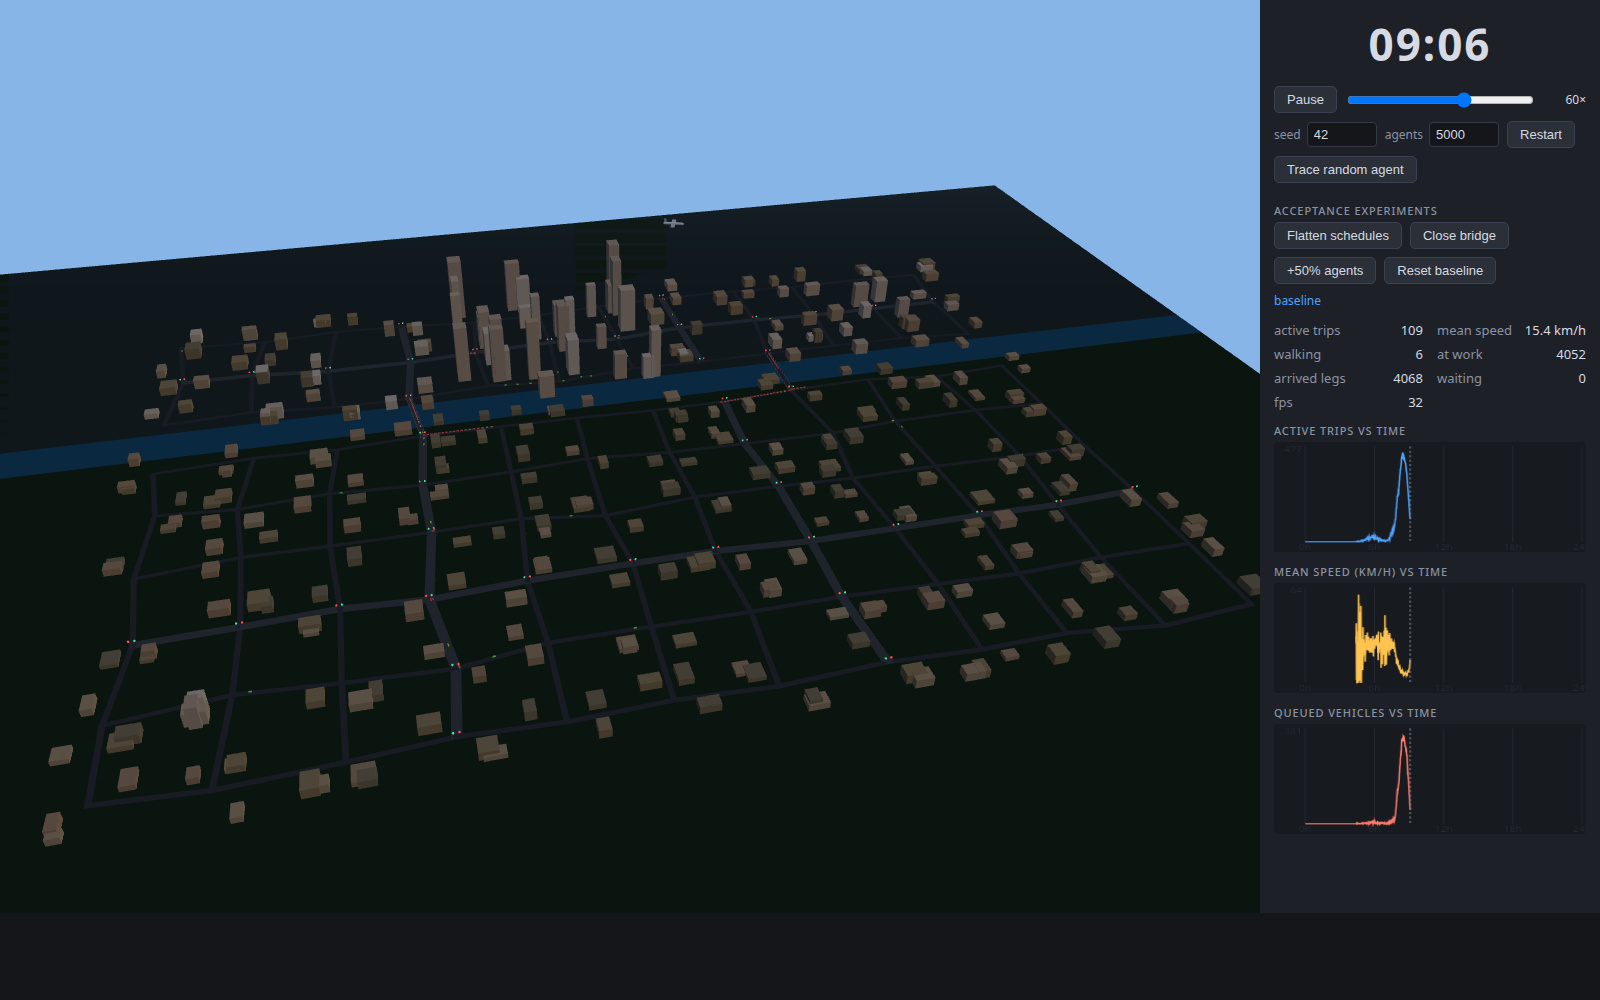
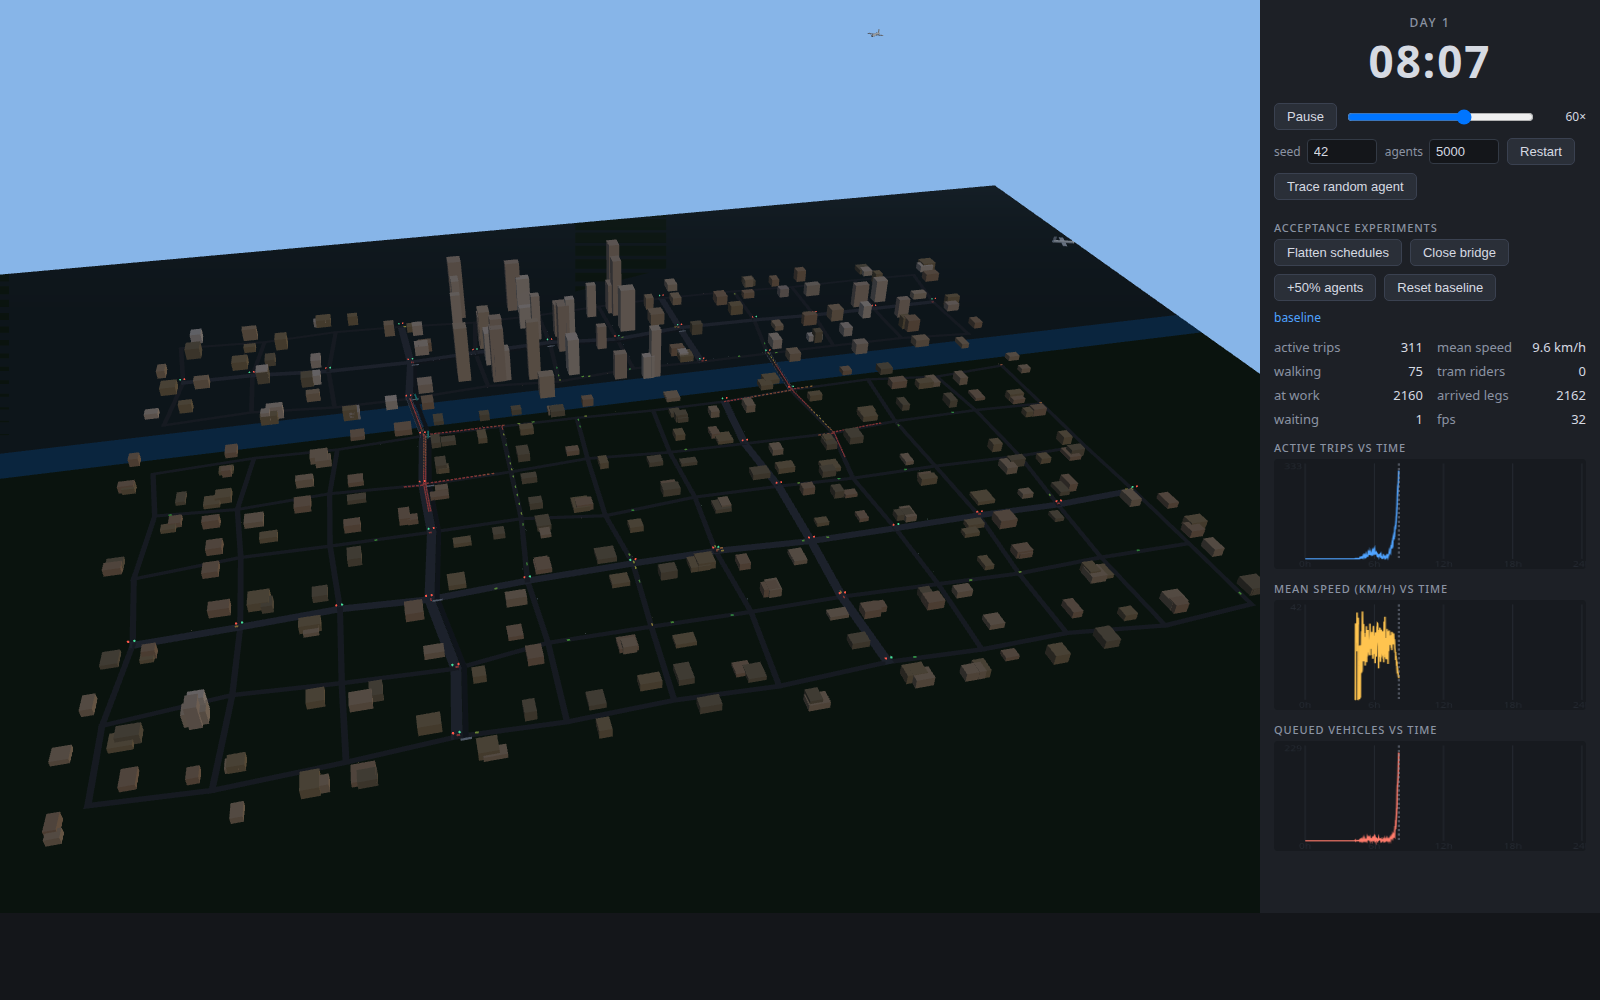
feat(render3d): tram line, platform crowds, multi-day HUD & trace
- transit3d.ts: offset track bed, stop platforms, timetable-driven teal
  trams, instanced platform crowds that physically accumulate while waiting
- riders' walk legs render through the shared pedestrian instancing; trace
  beacon follows riders through all four phases (incl. aboard the tram)
- HUD: tram riders + Day N clock; ?warp now spans days (?warp=104.9 = day 5)
- docs: peak screenshot with tram at the bridge; day-5 ghost-charts shot
  showing the peak migrating earlier under four faded previous days

diff --git a/src/render3d/transit3d.ts b/src/render3d/transit3d.ts
@@ -1,0 +1,137 @@
+import * as THREE from "three";
+import type { TransitLine, TransitSystem } from "../sim/transit";
+import { tramPositions } from "../sim/transit";
+import type { Network } from "../sim/types";
+import { disposeGroup } from "./util";
+
+/**
+ * The tram line in 3D: track bed offset beside the streets, platforms at
+ * stops, teal trams gliding on the closed-form timetable, and little crowds
+ * that physically accumulate on platforms while they wait — morning platform
+ * crowding is just queued agents, like everything else in this city.
+ */
+export class Transit3D {
+  readonly group = new THREE.Group();
+  private readonly trams: THREE.Mesh[] = [];
+  private readonly crowd: THREE.InstancedMesh;
+  private readonly dummy = new THREE.Object3D();
+  /** Piecewise track geometry: world coords + cumulative distance. */
+  private readonly pts: { x: number; z: number; d: number }[] = [];
+
+  constructor(
+    net: Network,
+    private readonly line: TransitLine,
+  ) {
+    // Track polyline, offset to the side of the street.
+    const OFFSET = 11; // m from street center — its own right-of-way
+    for (let i = 0; i < line.pathNodes.length; i++) {
+      const n = net.nodes[line.pathNodes[i]];
+      const prev = net.nodes[line.pathNodes[Math.max(0, i - 1)]];
+      const next = net.nodes[line.pathNodes[Math.min(line.pathNodes.length - 1, i + 1)]];
+      const dx = next.x - prev.x;
+      const dz = next.y - prev.y;
+      const len = Math.hypot(dx, dz) || 1;
+      this.pts.push({
+        x: n.x + (-dz / len) * OFFSET,
+        z: n.y + (dx / len) * OFFSET,
+        d: line.cumDistM[i],
+      });
+    }
+
+    // Track bed: one flat box per segment.
+    const bedMat = new THREE.MeshLambertMaterial({ color: 0x262d33 });
+    for (let i = 1; i < this.pts.length; i++) {
+      const a = this.pts[i - 1];
+      const b = this.pts[i];
+      const len = Math.hypot(b.x - a.x, b.z - a.z);
+      const bed = new THREE.Mesh(new THREE.BoxGeometry(len + 4, 0.22, 7), bedMat);
+      bed.position.set((a.x + b.x) / 2, 0.11, (a.z + b.z) / 2);
+      bed.rotation.y = -Math.atan2(b.z - a.z, b.x - a.x);
+      this.group.add(bed);
+    }
+
+    // Platforms at stops.
+    const platMat = new THREE.MeshLambertMaterial({ color: 0x9aa3b2 });
+    for (const j of line.stopPathIdx) {
+      const p = this.pts[j];
+      const plat = new THREE.Mesh(new THREE.BoxGeometry(14, 0.7, 3), platMat);
+      plat.position.set(p.x, 0.35, p.z + 5.2);
+      this.group.add(plat);
+    }
+
+    // Trams (enough meshes for every concurrently active run).
+    const tramGeo = new THREE.BoxGeometry(19, 3.4, 2.7);
+    const tramMat = new THREE.MeshLambertMaterial({ color: 0x2fb3a8 });
+    const maxActive = Math.ceil((line.totalS / line.headwayS + 1) * 2) + 2;
+    for (let i = 0; i < maxActive; i++) {
+      const tram = new THREE.Mesh(tramGeo, tramMat);
+      tram.visible = false;
+      this.trams.push(tram);
+      this.group.add(tram);
+    }
+
+    // Waiting crowds: little figures clustered on platforms.
+    this.crowd = new THREE.InstancedMesh(
+      new THREE.BoxGeometry(0.5, 1.8, 0.5),
+      new THREE.MeshLambertMaterial({ color: 0xd8cfc0 }),
+      512,
+    );
+    this.crowd.frustumCulled = false;
+    this.group.add(this.crowd);
+  }
+
+  /** World position + heading at a distance along the track. */
+  coordAt(posM: number): { x: number; z: number; angle: number } {
+    const pts = this.pts;
+    let i = 1;
+    while (i < pts.length - 1 && pts[i].d < posM) i++;
+    const a = pts[i - 1];
+    const b = pts[i];
+    const span = b.d - a.d || 1;
+    const f = Math.min(1, Math.max(0, (posM - a.d) / span));
+    return {
+      x: a.x + (b.x - a.x) * f,
+      z: a.z + (b.z - a.z) * f,
+      angle: -Math.atan2(b.z - a.z, b.x - a.x),
+    };
+  }
+
+  update(transit: TransitSystem, t: number): void {
+    const poses = tramPositions(this.line, t);
+    for (let i = 0; i < this.trams.length; i++) {
+      const tram = this.trams[i];
+      if (i < poses.length) {
+        const c = this.coordAt(poses[i].posM);
+        tram.visible = true;
+        tram.position.set(c.x + (poses[i].dir === 1 ? 1.8 : -1.8), 1.8, c.z);
+        tram.rotation.y = c.angle;
+      } else {
+        tram.visible = false;
+      }
+    }
+
+    // Platform crowds (capped per platform, deterministic little grid).
+    let ci = 0;
+    const waiting = transit.waitingAt();
+    for (let s = 0; s < this.line.stopPathIdx.length; s++) {
+      const node = this.line.stopNodes[s];
+      const count = waiting.get(node) ?? 0;
+      if (count === 0) continue;
+      const p = this.pts[this.line.stopPathIdx[s]];
+      const show = Math.min(count, 14);
+      for (let k = 0; k < show && ci < 512; k++) {
+        this.dummy.position.set(p.x - 6 + (k % 7) * 2, 1.25, p.z + 4.4 + Math.floor(k / 7) * 1.4);
+        this.dummy.rotation.set(0, 0, 0);
+        this.dummy.scale.set(1, 1, 1);
+        this.dummy.updateMatrix();
+        this.crowd.setMatrixAt(ci++, this.dummy.matrix);
+      }
+    }
+    this.crowd.count = ci;
+    this.crowd.instanceMatrix.needsUpdate = true;
+  }
+
+  dispose(): void {
+    disposeGroup(this.group);
+  }
+}

diff --git a/src/render3d/scene.ts b/src/render3d/scene.ts
@@ -6,6 +6,7 @@ import type { Simulation } from "../sim/sim";
 import { AgentsView } from "./agents3d";
 import { SkyTraffic } from "./ambient";
 import { CityMeshes } from "./city3d";
+import { Transit3D } from "./transit3d";
 import { disposeGroup } from "./util";
 
 /**
@@ -27,6 +28,7 @@ export class Scene3D {
 
   private city: CityMeshes;
   private agentsView: AgentsView;
+  private transit3d: Transit3D;
   private ambient: SkyTraffic;
   private traceLine: THREE.Line | null = null;
   private readonly traceBeacon: THREE.Mesh;
@@ -63,6 +65,7 @@ export class Scene3D {
 
     this.city = new CityMeshes(sim.net, sim.cfg);
     this.agentsView = new AgentsView(sim.net, sim.engine.cap, 4096);
+    this.transit3d = new Transit3D(sim.net, sim.line);
     const b = networkBounds(sim.net);
     this.ambient = new SkyTraffic(
       b,
@@ -72,6 +75,7 @@ export class Scene3D {
     );
     this.scene.add(this.city.group);
     this.scene.add(this.agentsView.group);
+    this.scene.add(this.transit3d.group);
     this.scene.add(this.ambient.group);
 
     this.center.set((b.x0 + b.x1) / 2, 0, (b.y0 + b.y1) / 2);
@@ -84,13 +88,17 @@ export class Scene3D {
   setSimulation(sim: Simulation): void {
     this.scene.remove(this.city.group);
     this.scene.remove(this.agentsView.group);
+    this.scene.remove(this.transit3d.group);
     this.city.dispose();
     disposeGroup(this.city.group);
     this.agentsView.dispose();
+    this.transit3d.dispose();
     this.city = new CityMeshes(sim.net, sim.cfg);
     this.agentsView = new AgentsView(sim.net, sim.engine.cap, 4096);
+    this.transit3d = new Transit3D(sim.net, sim.line);
     this.scene.add(this.city.group);
     this.scene.add(this.agentsView.group);
+    this.scene.add(this.transit3d.group);
     this.clearTrace();
   }
 
@@ -136,6 +144,7 @@ export class Scene3D {
     this.city.updateBuildings(sim.scheduler.workersAt, sim.scheduler.residentsAt, day);
     this.city.updateClosure(sim.arterialBridgeClosed());
     this.agentsView.update(sim);
+    this.transit3d.update(sim.transit, t);
     this.ambient.update(t);
     this.updateTrace(sim, traceId, realDt);
 
@@ -170,7 +179,31 @@ export class Scene3D {
       this.scene.add(this.traceLine);
     }
     this.traceBob += realDt * 3;
-    if (this.agentsView.entityPosition(sim, traceId, this.v3)) {
+    let located = this.agentsView.entityPosition(sim, traceId, this.v3);
+    if (!located) {
+      // Transit riders: walking legs, platforms, or aboard a tram.
+      const st = sim.transit.statusOf(traceId, sim.t);
+      if (st !== null) {
+        if (st.edgeId >= 0) {
+          located = false; // covered by entityPosition only for walk/cars; compute here
+          const e = sim.net.edges[st.edgeId];
+          const a = sim.net.nodes[e.from];
+          const b = sim.net.nodes[e.to];
+          const f = st.posM / e.lengthM;
+          this.v3.set(a.x + (b.x - a.x) * f, 1.0, a.y + (b.y - a.y) * f);
+          located = true;
+        } else if (st.node >= 0) {
+          const n = sim.net.nodes[st.node];
+          this.v3.set(n.x, 1.2, n.y);
+          located = true;
+        } else {
+          const c = this.transit3d.coordAt(st.trackPosM);
+          this.v3.set(c.x, 3.6, c.z);
+          located = true;
+        }
+      }
+    }
+    if (located) {
       this.traceBeacon.visible = true;
       this.traceBeacon.position.set(
         this.v3.x,

diff --git a/src/sim/transit.ts b/src/sim/transit.ts
@@ -337,6 +337,35 @@ export class TransitSystem {
       cb(r.agentId, r.phase, leg !== null ? leg.distM : 0);
     }
   }
+
+  /** Where is this agent? (trace beacon / status text). Null if not riding. */
+  statusOf(
+    agentId: number,
+    t: number,
+  ): { phase: Phase; edgeId: number; posM: number; node: number; trackPosM: number } | null {
+    for (const r of this.riders) {
+      if (r.agentId !== agentId) continue;
+      const leg = r.phase === 0 ? r.leg1 : r.phase === 3 ? r.leg2 : null;
+      if (leg !== null) {
+        const before = leg.idx > 0 ? leg.cum[leg.idx - 1] : 0;
+        return {
+          phase: r.phase,
+          edgeId: leg.route[leg.idx],
+          posM: leg.distM - before,
+          node: -1,
+          trackPosM: 0,
+        };
+      }
+      if (r.phase === 1) return { phase: 1, edgeId: -1, posM: 0, node: r.waitNode, trackPosM: 0 };
+      // On board: linear interpolation between stops is plenty for a beacon.
+      const j0 = this.line.stopPathIdx[r.boardStop];
+      const j1 = this.line.stopPathIdx[r.alightStop];
+      const f = Math.min(1, Math.max(0, (t - r.boardDepS) / (r.alightS - r.boardDepS)));
+      const pos = this.line.cumDistM[j0] + (this.line.cumDistM[j1] - this.line.cumDistM[j0]) * f;
+      return { phase: 2, edgeId: -1, posM: 0, node: -1, trackPosM: pos };
+    }
+    return null;
+  }
 }
 
 /** Move a walk leg forward; true when finished. */

diff --git a/src/main.ts b/src/main.ts
@@ -36,7 +36,8 @@ warpIfRequested(sim);
 
 function warpIfRequested(s: Simulation): void {
   if (urlWarp === null || s.tick > 0) return;
-  const warpS = Math.max(0, Math.min(24, Number(urlWarp))) * 3600;
+  // Hours, possibly spanning days: ?warp=103.5 = day 5, 07:30 (learned city).
+  const warpS = Math.max(0, Math.min(240, Number(urlWarp))) * 3600;
   s.step(Math.round(warpS / cfg.sim.dt));
 }
 
@@ -153,6 +154,7 @@ function updateHud(): void {
   ui.hudActive.textContent = String(sim.engine.activeCount);
   ui.hudSpeed.textContent = Number.isNaN(lastSpeed) ? "—" : `${lastSpeed.toFixed(1)} km/h`;
   ui.hudWalkers.textContent = String(sim.walk.count);
+  ui.hudRiders.textContent = String(sim.transit.count);
   ui.hudAtWork.textContent = String(atWork);
   ui.hudArrived.textContent = String(m.trips.length);
   ui.hudWaiting.textContent = String(sim.engine.waitingCount);
@@ -166,9 +168,18 @@ function updateHud(): void {
       (tr) => tr.agentId === traceId && tr.plannedDepartS >= dayBase,
     );
     const last = legs.length > 0 ? legs[legs.length - 1] : undefined;
+    const transitStatus = sim.transit.statusOf(traceId, sim.t);
     let status: string;
     if (slot >= 0) {
       status = `driving — ${((sim.engine.vel[slot] ?? 0) * 3.6).toFixed(0)} km/h (${legKind(legs.length)})`;
+    } else if (transitStatus !== null) {
+      const phaseNames = [
+        "walking to the stop",
+        "waiting on the platform",
+        "riding the tram",
+        "walking from the stop",
+      ];
+      status = `${phaseNames[transitStatus.phase]} (${legKind(legs.length)})`;
     } else if (isWalking(traceId)) {
       status = `walking (${legKind(legs.length)})`;
     } else if (last !== undefined && last.kind === "toHome") {

diff --git a/src/render3d/agents3d.ts b/src/render3d/agents3d.ts
@@ -60,7 +60,7 @@ export class AgentsView {
 
     let wi = 0;
     const cap = (this.walkers.instanceMatrix.count as number) ?? 4096;
-    sim.walk.forEach((agentId, edgeId, posM) => {
+    const drawWalker = (agentId: number, edgeId: number, posM: number): void => {
       if (wi >= cap) return;
       const f = this.frames[edgeId];
       const edge = sim.net.edges[edgeId];
@@ -77,7 +77,9 @@ export class AgentsView {
         ),
       );
       wi++;
-    });
+    };
+    sim.walk.forEach(drawWalker);
+    sim.transit.forEachWalking(drawWalker); // riders on their access/egress legs
     this.walkers.count = wi;
     this.walkers.instanceMatrix.needsUpdate = true;
     if (this.walkers.instanceColor !== null) this.walkers.instanceColor.needsUpdate = true;

diff --git a/src/ui.ts b/src/ui.ts
@@ -17,6 +17,7 @@ export interface Ui {
   hudActive: HTMLElement;
   hudSpeed: HTMLElement;
   hudWalkers: HTMLElement;
+  hudRiders: HTMLElement;
   hudAtWork: HTMLElement;
   hudArrived: HTMLElement;
   hudWaiting: HTMLElement;
@@ -87,6 +88,7 @@ export function setupUi(handlers: UiHandlers, maxMult: number, initialMult: numb
     hudActive: el("hudActive"),
     hudSpeed: el("hudSpeed"),
     hudWalkers: el("hudWalkers"),
+    hudRiders: el("hudRiders"),
     hudAtWork: el("hudAtWork"),
     hudArrived: el("hudArrived"),
     hudWaiting: el("hudWaiting"),

diff --git a/index.html b/index.html
@@ -46,6 +46,7 @@
           <div><span class="hudLabel">active trips</span><span id="hudActive">0</span></div>
           <div><span class="hudLabel">mean speed</span><span id="hudSpeed">—</span></div>
           <div><span class="hudLabel">walking</span><span id="hudWalkers">0</span></div>
+          <div><span class="hudLabel">tram riders</span><span id="hudRiders">0</span></div>
           <div><span class="hudLabel">at work</span><span id="hudAtWork">0</span></div>
           <div><span class="hudLabel">arrived legs</span><span id="hudArrived">0</span></div>
           <div><span class="hudLabel">waiting</span><span id="hudWaiting">0</span></div>